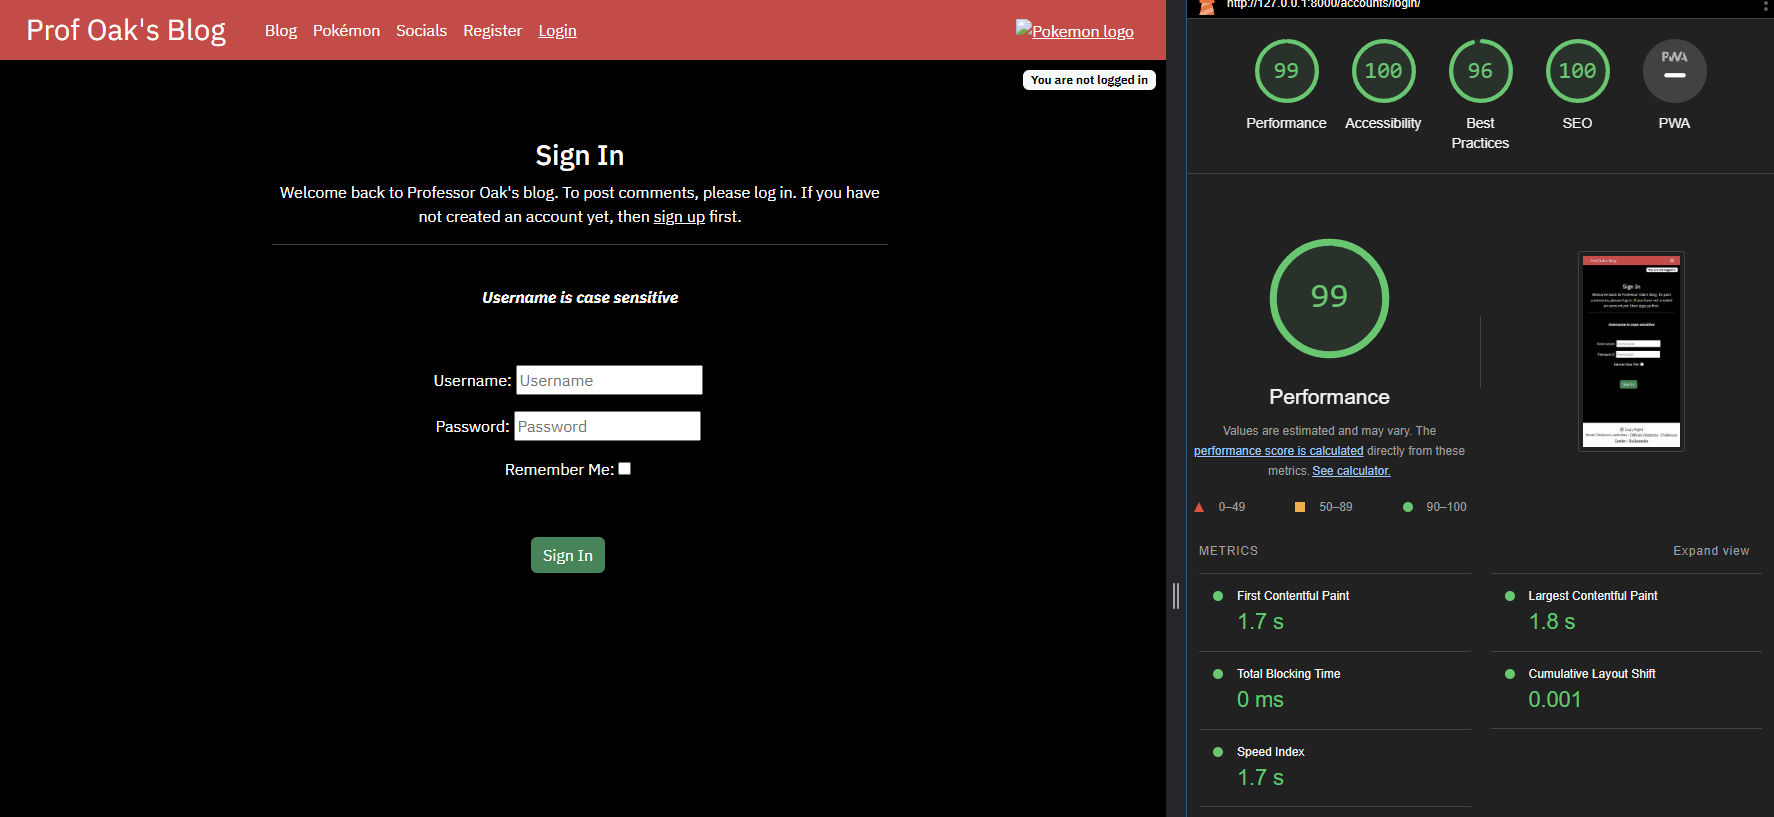
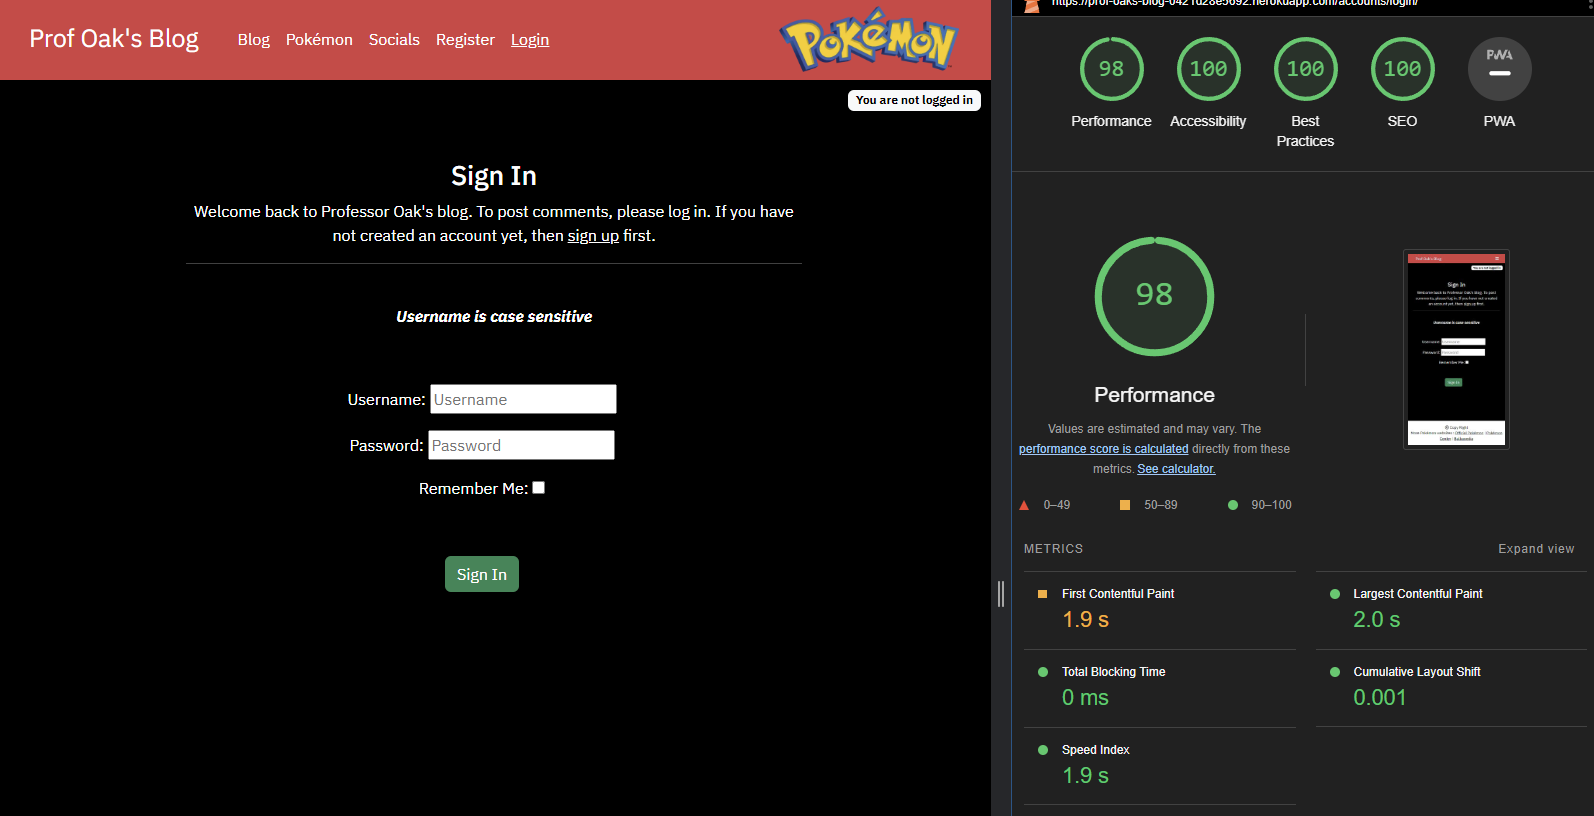
Add lighthouse testing

diff --git a/blog/templates/blog/post_detail.html b/blog/templates/blog/post_detail.html
@@ -51,7 +51,7 @@
     <!-- Displaying Comments -->
     <div class="row">
         <div class="col-sm-6 card mb-4 mt-3 text-center white-text">
-            <h3>Comments:</h3>
+            <h1 class="fs-3">Comments:</h1>
             <div class="card-body">
                 {% if comments.count != 0 %}
                 {% for comment in comments %}
@@ -81,9 +81,9 @@
 
         <!-- Creating New Comments -->
         <div class="col-sm-6 card mb-4 mt-3 white-text">
+            <h1 class="fs-3">Leave a comment:</h1>
             <div class="card-body">
                 {% if user.is_authenticated %}
-                <h3>Leave a comment:</h3>
                 <p>Posting as : {{ user.username }}</p>
                 <form id="commentForm" method="post">
                     {{ comment_form | crispy }}
@@ -91,8 +91,8 @@
                     <button id="submitButton" type="submit" class="btn btn-success blue-white btn-lg">Submit</button>
                 </form>
                 {% else %}
-                <h4 class="text-center"><a class="link white-text" href="{{ login_url }}">Sign in</a> or 
-                    <a class="link white-text" href="{{ signup_url }}">sign up</a> to leave a comment</h4>
+                <h1 class="text-center fs-4"><a class="link white-text" href="{{ login_url }}">Sign in</a> or 
+                    <a class="link white-text" href="{{ signup_url }}">sign up</a> to leave a comment</h1>
                 {% endif %}
             </div>
         </div>

diff --git a/user_profile/templates/user_profile/socials.html b/user_profile/templates/user_profile/socials.html
@@ -37,7 +37,7 @@ Oak's socials
                         </div>
                         <div class="col-md-8">
                             <div class="card-body">
-                                <h5 class="card-title"><u>{{ profile.user.username }}</u></h5>
+                                <h1 class="card-title"><u>{{ profile.user.username }}</u></h1>
                                 <p class="card-text fs-5">{{ profile.user.username }}'s favourite pokemon: </p>
                                 <p class="card-text">{{ profile.fav_pokemon.name }}</p>
                                 <p>
@@ -100,7 +100,7 @@ Oak's socials
                         </div>
                         <div class="col-md-8">
                             <div class="card-body">
-                                <h5 class="card-title"><u>{{ profile.user.username }}</u></h5>
+                                <h1 class="card-title"><u>{{ profile.user.username }}</u></h1>
                                 <p class="card-text fs-5">{{ profile.user.username }}'s favourite pokemon: </p>
                                 <p class="card-text">{{ profile.fav_pokemon.name }}</p>
                                 <p>

diff --git a/database/templates/database/database.html b/database/templates/database/database.html
@@ -20,7 +20,7 @@
                     <img class="mx-auto d-block" src="{{ i.image }}" alt="{{ i.name }}">
                     <div class="card-body">
                         <div>
-                            <h5 class="poke-name badge text-bg-light">{{ i.name }}</h5>
+                            <h1 class="poke-name badge text-bg-light">{{ i.name }}</h1>
                         </div>
                         <p class="card-text">
                             Id : {{ i.poke_id }}<br>

diff --git a/static/css/style.css b/static/css/style.css
@@ -15,10 +15,14 @@
     transition: all 0.4s ease-out;
 }
 
-.blue-white:hover,
-.masthead-text {
+.blue-white:hover {
     background-color: #4566ad;
     color: white;
+}
+
+.masthead-text {
+    background-color: rgb(228, 228, 228);
+    color: black;
 }
 
 .h6 {
@@ -181,7 +185,7 @@ main {
 
 .post-subtitle {
     margin-left: 5%;
-    color: rgb(209, 209, 209);
+    color: black;
 }
 
 .scale {

diff --git a/staticfiles/css/style.css b/staticfiles/css/style.css
@@ -15,10 +15,14 @@
     transition: all 0.4s ease-out;
 }
 
-.blue-white:hover,
-.masthead-text {
+.blue-white:hover {
     background-color: #4566ad;
     color: white;
+}
+
+.masthead-text {
+    background-color: rgb(228, 228, 228);
+    color: black;
 }
 
 .h6 {
@@ -181,7 +185,7 @@ main {
 
 .post-subtitle {
     margin-left: 5%;
-    color: rgb(209, 209, 209);
+    color: black;
 }
 
 .scale {

diff --git a/TEST.md b/TEST.md
@@ -424,5 +424,83 @@ Click [here](README.md) to go back to the README.md file.
 
 </details>
 
+<br>
 
 # Lighthouse Testing
+
+<details>
+<summary>Blog page</summary>
+
+![page](static/images/readme/lighthouse-home.png)
+
+</details>
+
+<details>
+<summary>Blog details page</summary>
+
+![page](static/images/readme/lighthouse-blogpost.png)
+
+</details>
+
+<details>
+<summary>Pokemon page</summary>
+
+![page](static/images/readme/lighthouse-database.png)
+
+</details>
+
+<details>
+<summary>Socials page</summary>
+
+![page](static/images/readme/lighthouse-socials.png)
+
+</details>
+
+<details>
+<summary>Socials page logged in</summary>
+
+![page](static/images/readme/lighthouse-socials-loggedin.png)
+
+</details>
+
+<details>
+<summary>Profile page</summary>
+
+![page](static/images/readme/lighthouse-profile.png)
+
+</details>
+
+<details>
+<summary>Profile page logged in</summary>
+
+![page](static/images/readme/lighthouse-profile-loggedin.png)
+
+</details>
+
+<details>
+<summary>Profile update page</summary>
+
+![page](static/images/readme/lighthouse-update.png)
+
+</details>
+
+<details>
+<summary>Sign up page</summary>
+
+![page](static/images/readme/lighthouse-register.png)
+
+</details>
+
+<details>
+<summary>Sign in page</summary>
+
+![page](static/images/readme/lighthouse-signin.png)
+
+</details>
+
+<details>
+<summary>Sign out page</summary>
+
+![page](static/images/readme/lighthouse-signout.png)
+
+</details>
